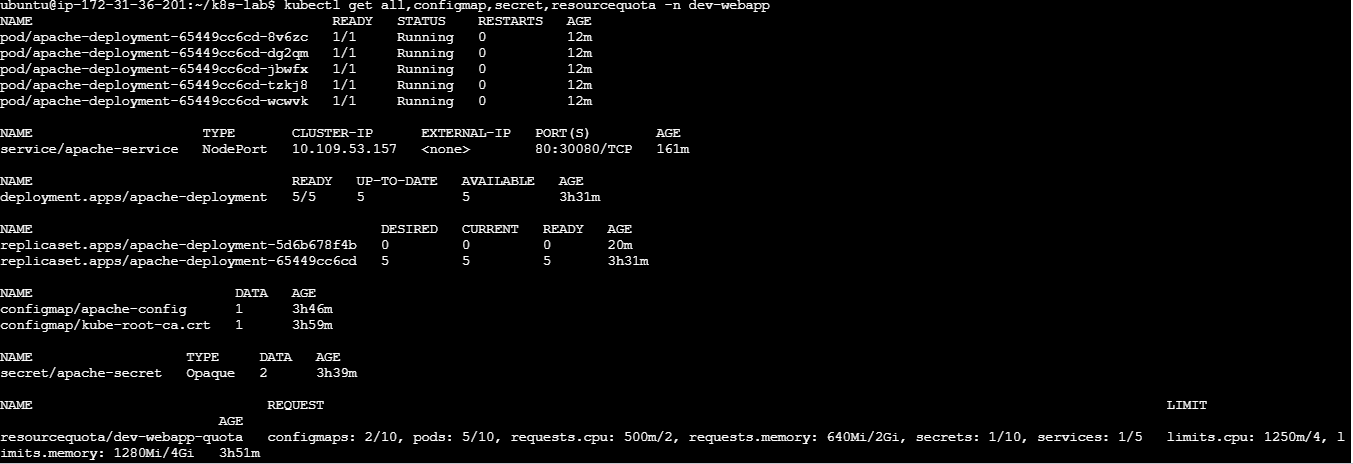
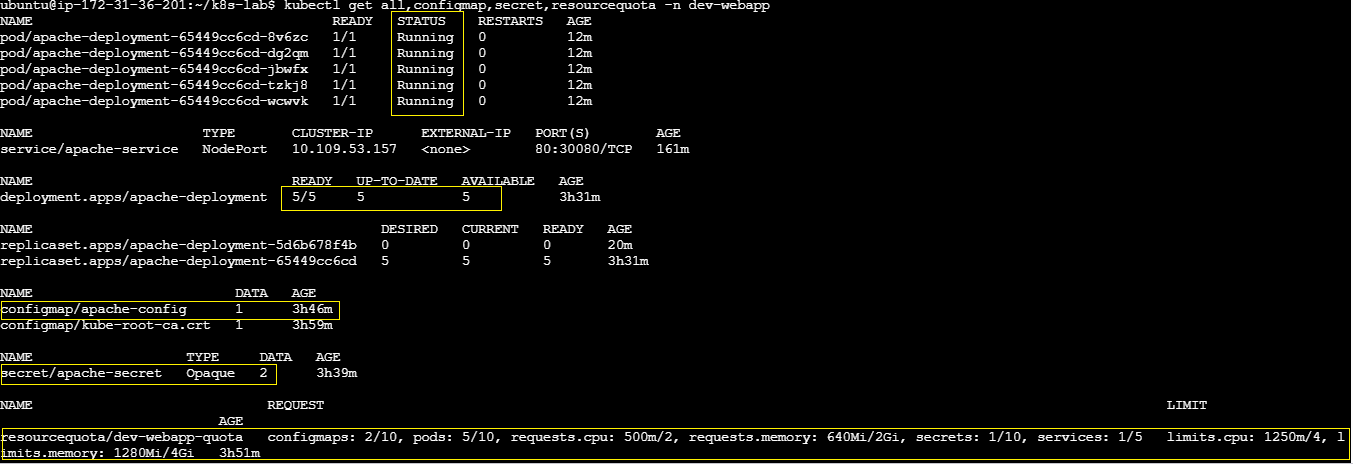
Update screenshots for task 6 and task 10 in README.md

Changed region(s): [[0.9933, 0.9353, 1.0, 0.9957]]

diff --git a/README.md b/README.md
@@ -528,7 +528,7 @@ http://<ec2-public-ip>:8081
 ```
 Leave that port-forward command running the whole time you're testing.
 
-> <img src="./screenshots/task6-service-endpoints1.png" width="700" />
+> <img src="./screenshots/task6-browser-page.png" width="700" />
  
 **How to access it in other setups:**
  